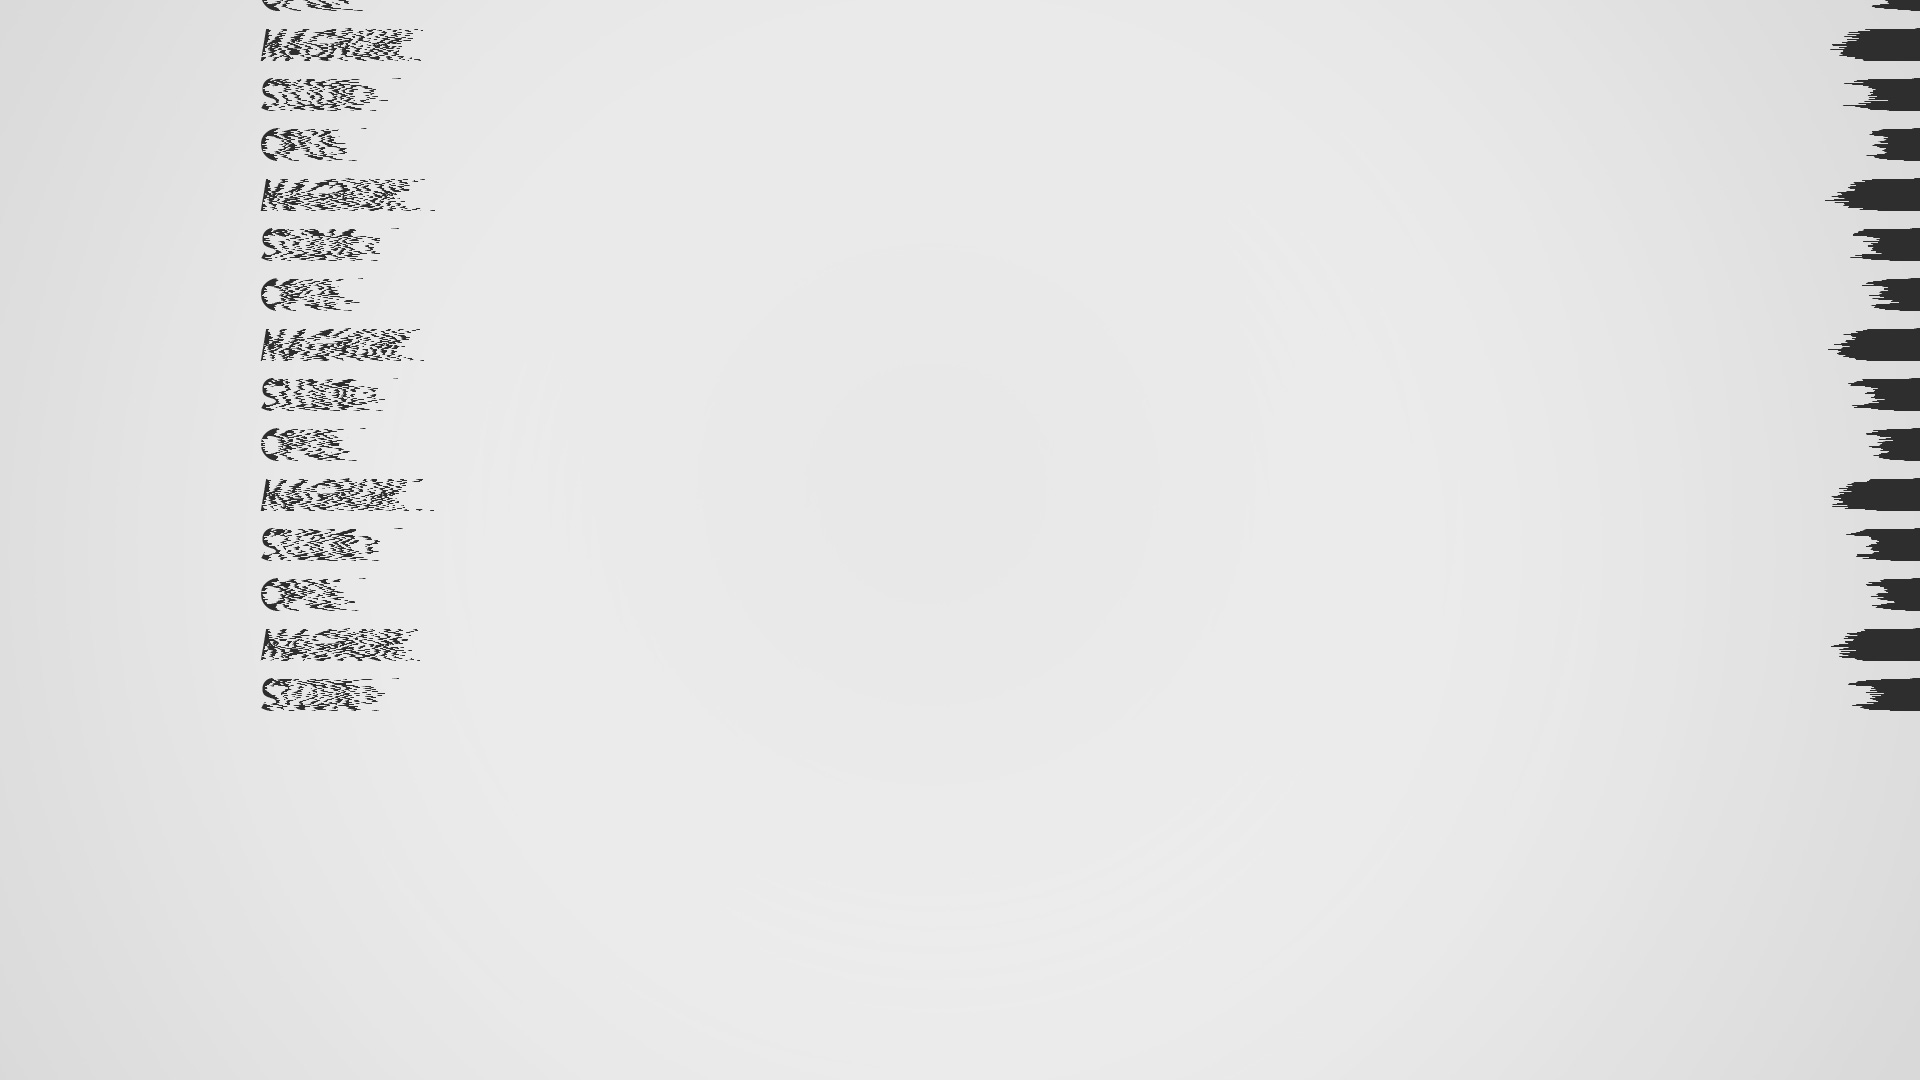
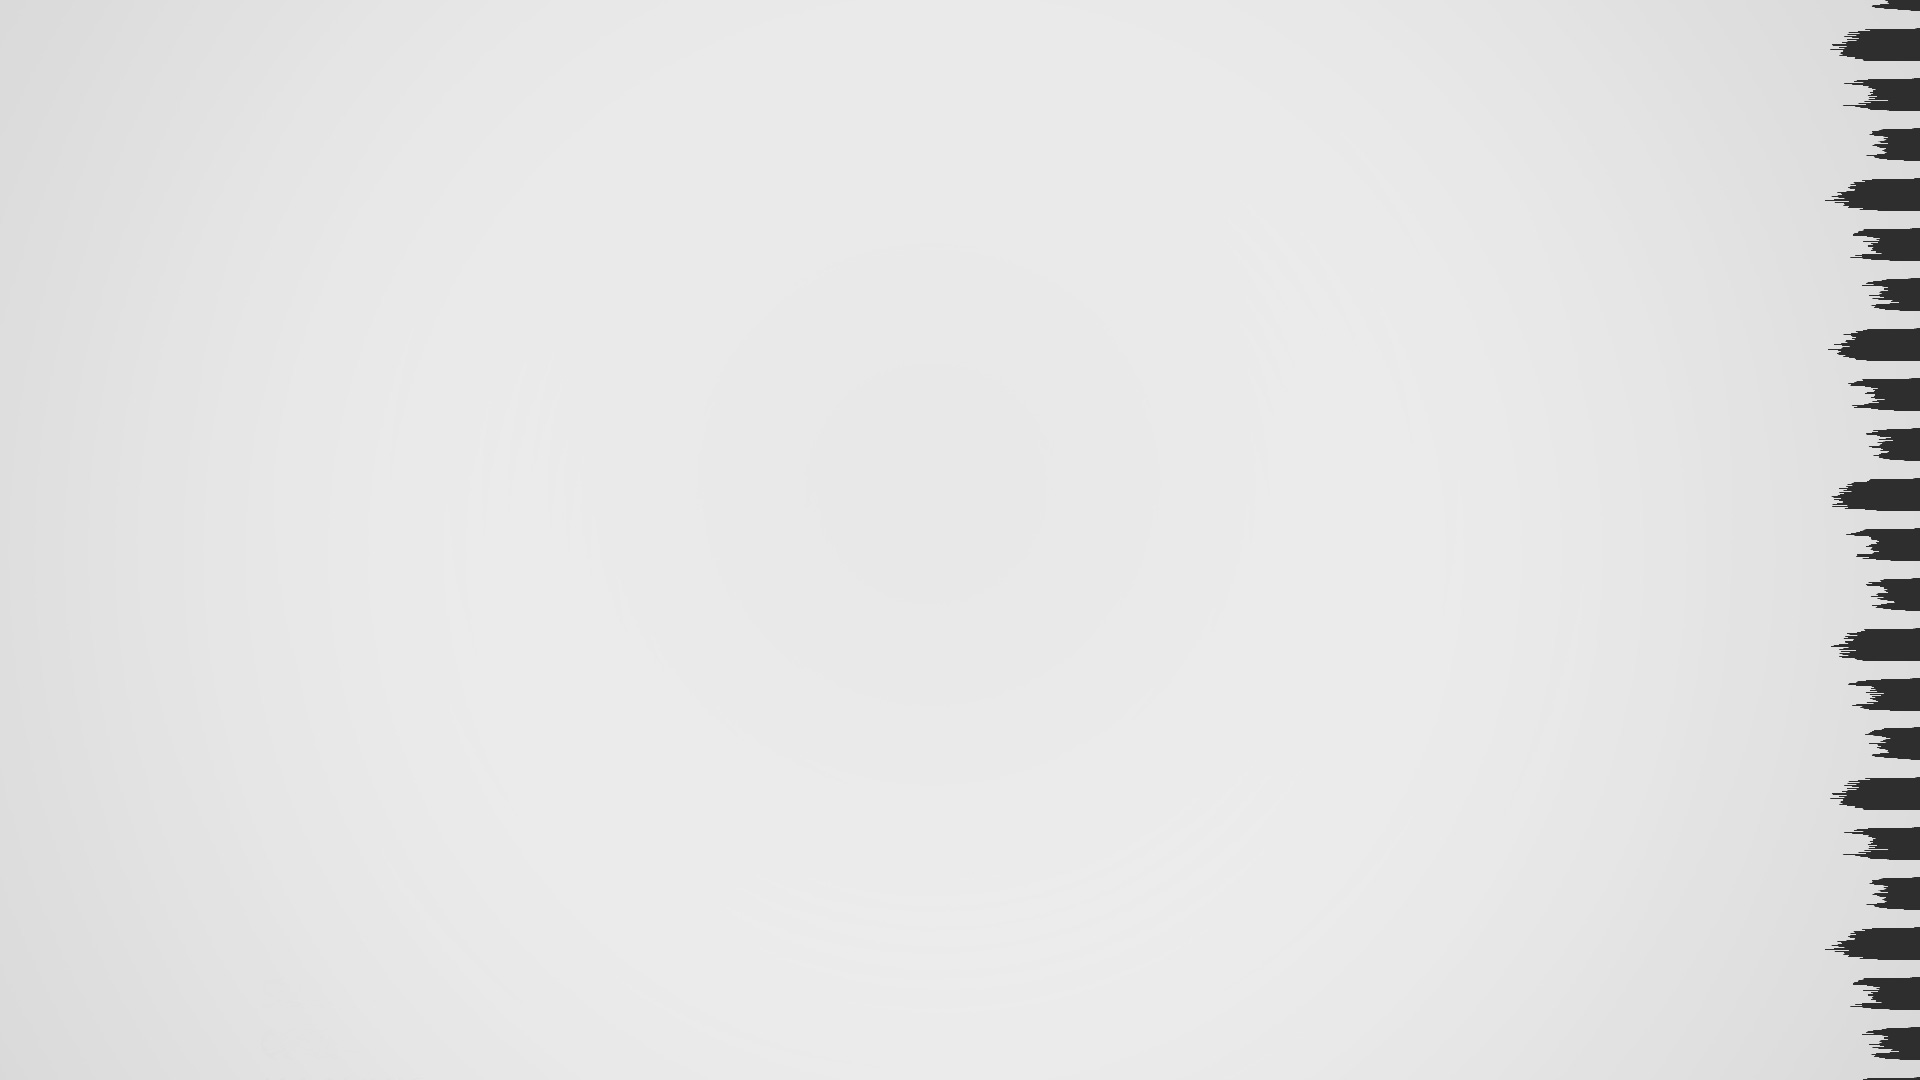
Background final et changement couleur

Changed region(s): [[0.125, 0.0, 0.2188, 0.6722], [0.9375, 0.6722, 1.0, 1.0]]

diff --git a/assets/css/style.css b/assets/css/style.css
@@ -145,7 +145,6 @@ header h3, header a {
 						 "footer"
 						 "svg"
 						 "credits";
-
 }
 nav {
 	grid-area: nav;
@@ -164,7 +163,8 @@ nav p {
 nav img {
 	width: 200px;
 	height: 200px;
-	margin-bottom: 10px;
+	padding-top: 10px;
+	padding-bottom: 10px;
 }
 .svg-wrapper {
 	grid-area: svg;
@@ -178,20 +178,18 @@ nav img {
 svg {
 	width: 250px;
 	height: 50px;
-  }
-
+}
   line {
 	stroke-width: 1;
 	stroke: #3c3c3c;
-  }
-  
+}
   #wave {
 	fill: none;
 	stroke-width: 1;
 	stroke-linecap: round;
 	stroke-linejoin: round;
-	stroke: #56acf4;
-  }
+	stroke: #eeeeee;
+}
 .footer-content {
 	grid-area: footer;
 	display: flex;
@@ -200,19 +198,16 @@ svg {
 	align-items: center;
 	color: #EEEEEE;
 }
-.footer-content__email, .footer-content__social, .footer-content__credits {
+.footer-content__email, .footer-content__address, .footer-content__social, .footer-content__credits {
 	height: 100%;
 	display: flex;
 	flex-direction: column;
 	text-align: center;
 	justify-content: center;
 }
-
 main {
 	grid-area: main;
-	max-width: 1400px;
-	margin-left: auto;
-	margin-right: auto;
+	margin-right: 100px;
 	/* display: grid;
 	grid-template-columns: 1fr 1fr;
 	grid-template-rows: 1fr 1fr;
@@ -282,8 +277,8 @@ h3 {
 	justify-content: center;
 }
 .works-content img {
-	width: 300px;
-	height: 300px;
+	width: 350px;
+	height: 350px;
 	-webkit-filter: grayscale(100%);
 	-moz-filter: grayscale(100%);
 	-ms-filter: grayscale(100%);
@@ -448,88 +443,89 @@ textarea:hover {
 
 @keyframes prop {
 	0% {
-	background: red;
+	background: white;
 	left: -2%;
 	}
 	5% {
-		background: #9337fe;
+		/* background: #9337fe; */
 	}
 	10% {
 	height: 10%;
 	margin-top: -5%;
-	background: #c532fc;
+	/* background: #c532fc; */
 	}
-	15% {
+	/* 15% {
 	background: #f689f8;
-	}
+	} */
 	20% {
 	height: 34%;
 	margin-top: -17%;
-	background: #3af9da;
+	/* background: #3af9da; */
 	}
-	25% {
+	/* 25% {
 	background: #ff2f8d;
-	}
+	} */
 	30% {
 	height: 10%;
 	margin-top: -5%;
-	background: #54e678;
+	/* background: #54e678; */
 	}
-	35% {
+	/* 35% {
 	background: #dc5245;
-	}
+	} */
 	40% {
 	height: 34%;
 	margin-top: -17%;
-	background: #3af9da;
+	/* background: #3af9da; */
 	}
-	45% {
+	/* 45% {
 	background: #f8b435;
-	}
+	} */
 	50% {
 	height: 10%;
 	margin-top: -5%;
-	background: #54e678;
+	/* background: #54e678; */
 	}
-	55% {
+	/* 55% {
 	background: #e0ff3b;
-	}
+	} */
 	60% {
 	height: 34%;
 	margin-top: -17%;
-	background: #3af9da;
+	/* background: #3af9da; */
 	}
-	65% {
+	/* 65% {
 	background: #46f443;
-	}
+	} */
 	70% {
 	height: 10%;
 	margin-top: -5%;
-	background: #54e678;
+	/* background: #54e678; */
 	}
-	75% {
+	/* 75% {
 	background: #4df3a9;
-	}
+	} */
 	80% {
 	height: 34%;
 	margin-top: -17%;
-	background: #3af9da;
+	/* background: #3af9da; */
 	}
-	85% {
+	/* 85% {
 	background: #36ebf4;
-	}
+	} */
 	90% {
 	height: 10%;
 	margin-top: -5%;
-	background: #3db3f3;
+	/* background: #3db3f3; */
 	}
-	95% {
+	/* 95% {
 	background: #3c82f1;
-	}
+	} */
 	100% {
 	left: 100%;
 	height: 34%;
 	margin-top: -17%;
-	background: #5b38ee;
+	/* background: #5b38ee; */
+	background: #eeeeee;
 	}
 }

diff --git a/index.html b/index.html
@@ -12,6 +12,7 @@
             <nav>
                 <img src="img/OMS-logo.png" alt="">
                 <p>ABOUT</p>
+                <p>SERVICES</p>
                 <p>OUR WORKS</p>
                 <p>THE ENGINEER</p>
                 <p>CONTACT</p>
@@ -74,6 +75,10 @@
                 <div class="footer-content__email">
                     <h3>EMAIL US</h3>
                     <p><a href="mailto:opusmagnumstudios@gmail.com">opusmagnumstudios@gmail.com</a></p>
+                </div>
+                <div class="footer-content__address">
+                    <h3>VISIT US</h3>
+                    <p>Brussels, Belgium</p>
                 </div>
                 <div class="footer-content__social">
                     <h3>FOLLOW US</h3>
